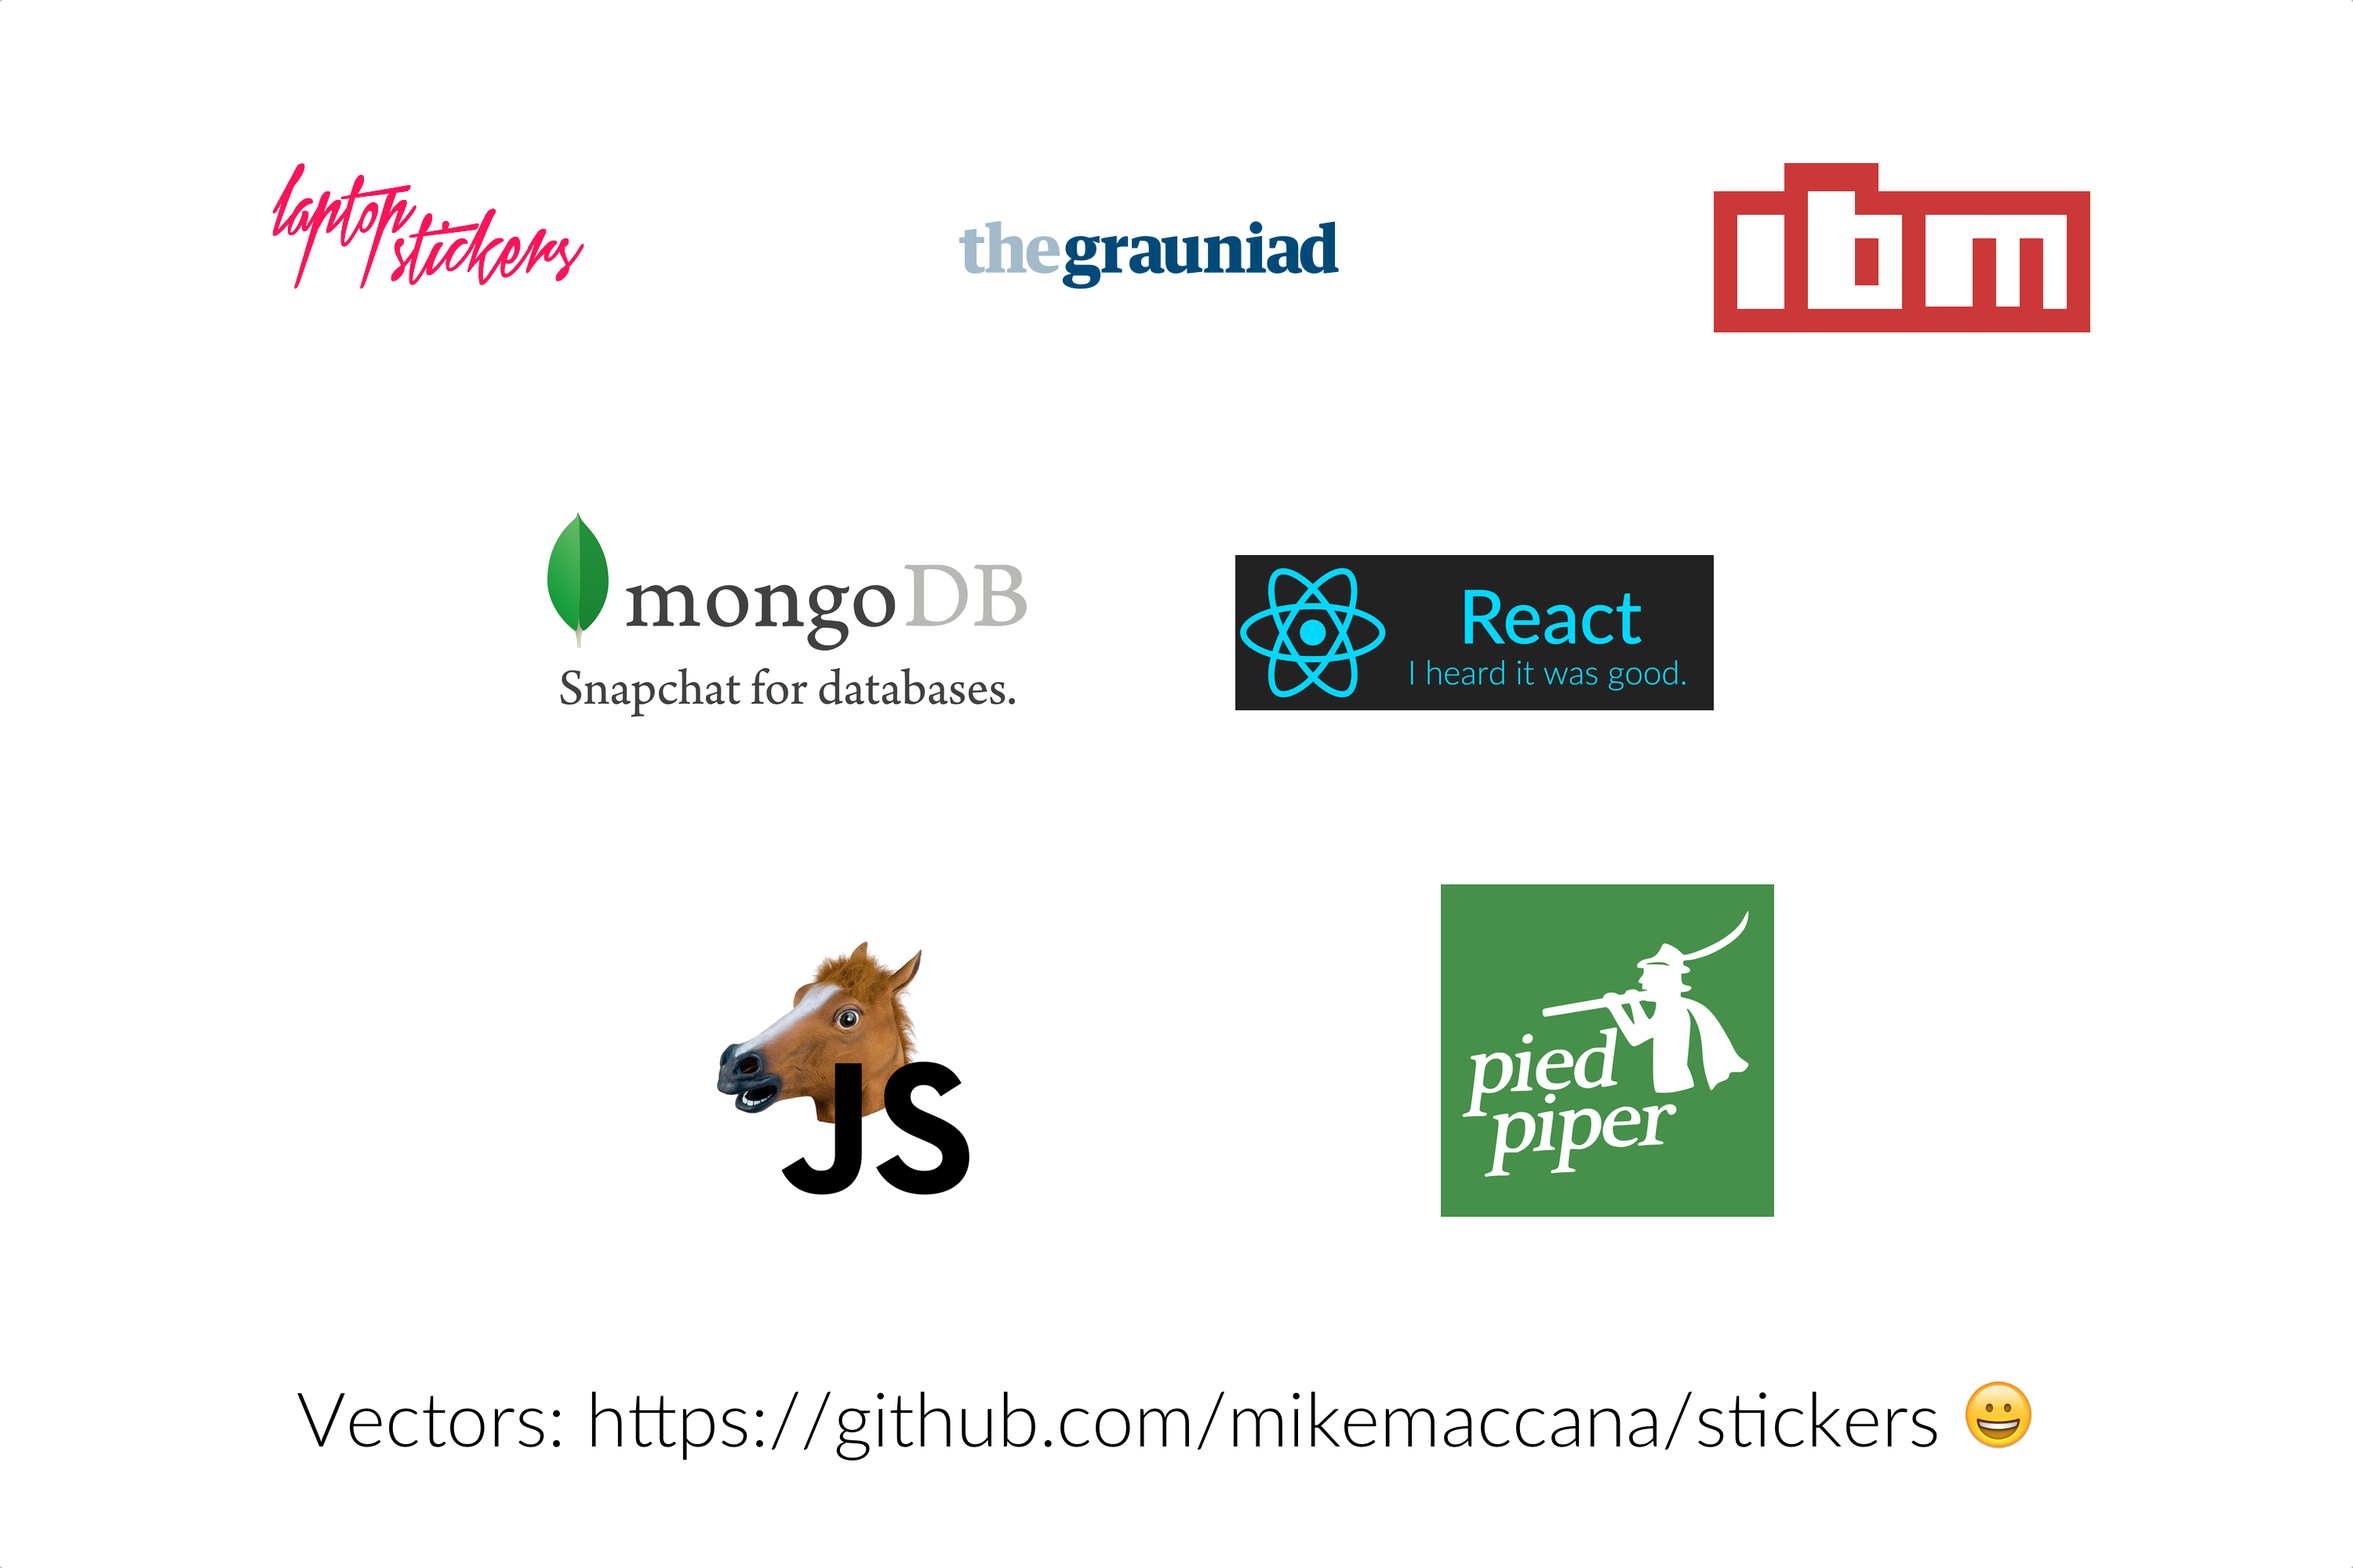
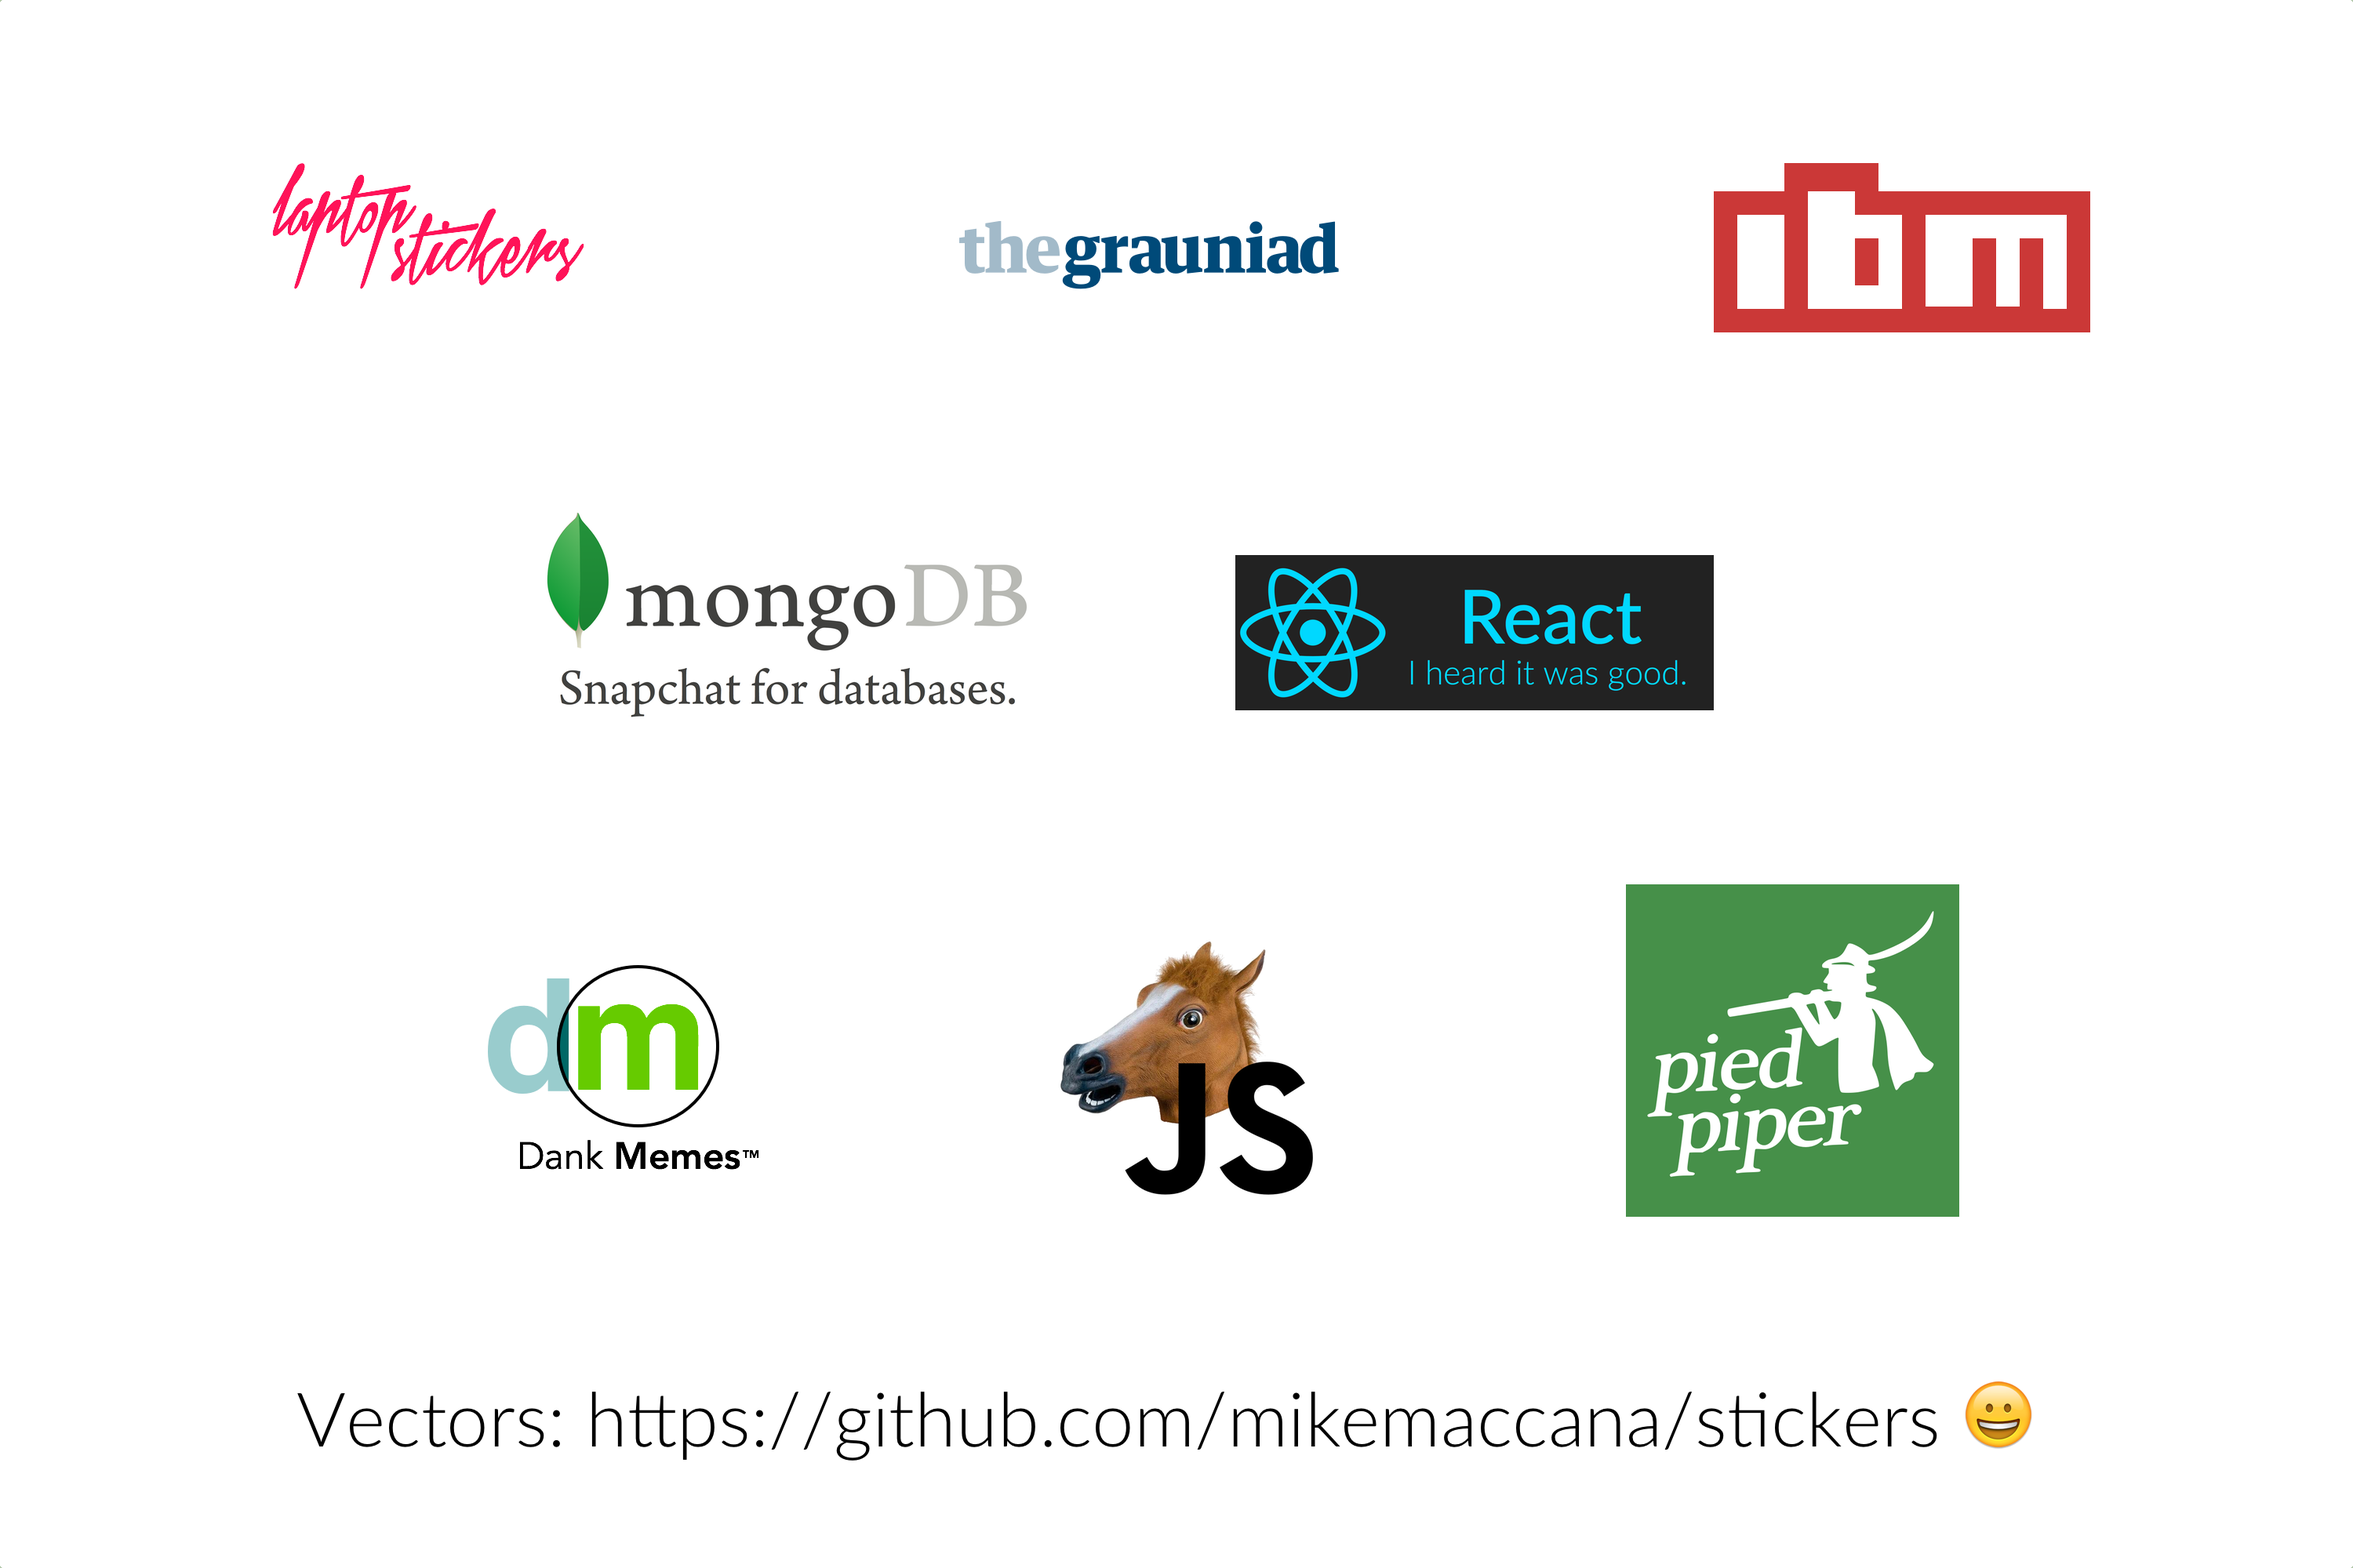
Add links in README Add dank memes

Changed region(s): [[0.589, 0.558, 0.837, 0.775], [0.186, 0.589, 0.434, 0.775], [0.434, 0.589, 0.558, 0.775]]

diff --git a/README.md b/README.md
@@ -2,9 +2,9 @@
 
 # Laptop Stickers
 
-These are stickers. Most are either existing jokes or joke versions of logos. I (@mikemaccana) might have printed them out for you and gave them to you at some event somewhere.
+These are stickers. Most are either existing jokes or joke versions of logos. I ([@mikemaccana](http://twitter.com/mikemaccana)) might have printed them out for you and gave them to you at some event somewhere.
 
-The MongoDB joke is @slexaxtons, I just licensed the right font and did the artwork. The horse.js belongs to @horse_js, I just found a higher res image of the mask and recreated it the image in higher res. The rest are from @mikemaccana.
+The MongoDB quote is by [@slexaxton](http://twitter.com/slexaxton), I just licensed the right font and did the artwork. The horse.js belongs to [@horse_js](http://twitter.com/horse_js), I just found a higher res image of the mask and recreated it the image in higher res. The rest are from @[@mikemaccana](http://twitter.com/mikemaccana).
 
 If you like them, please:
 
